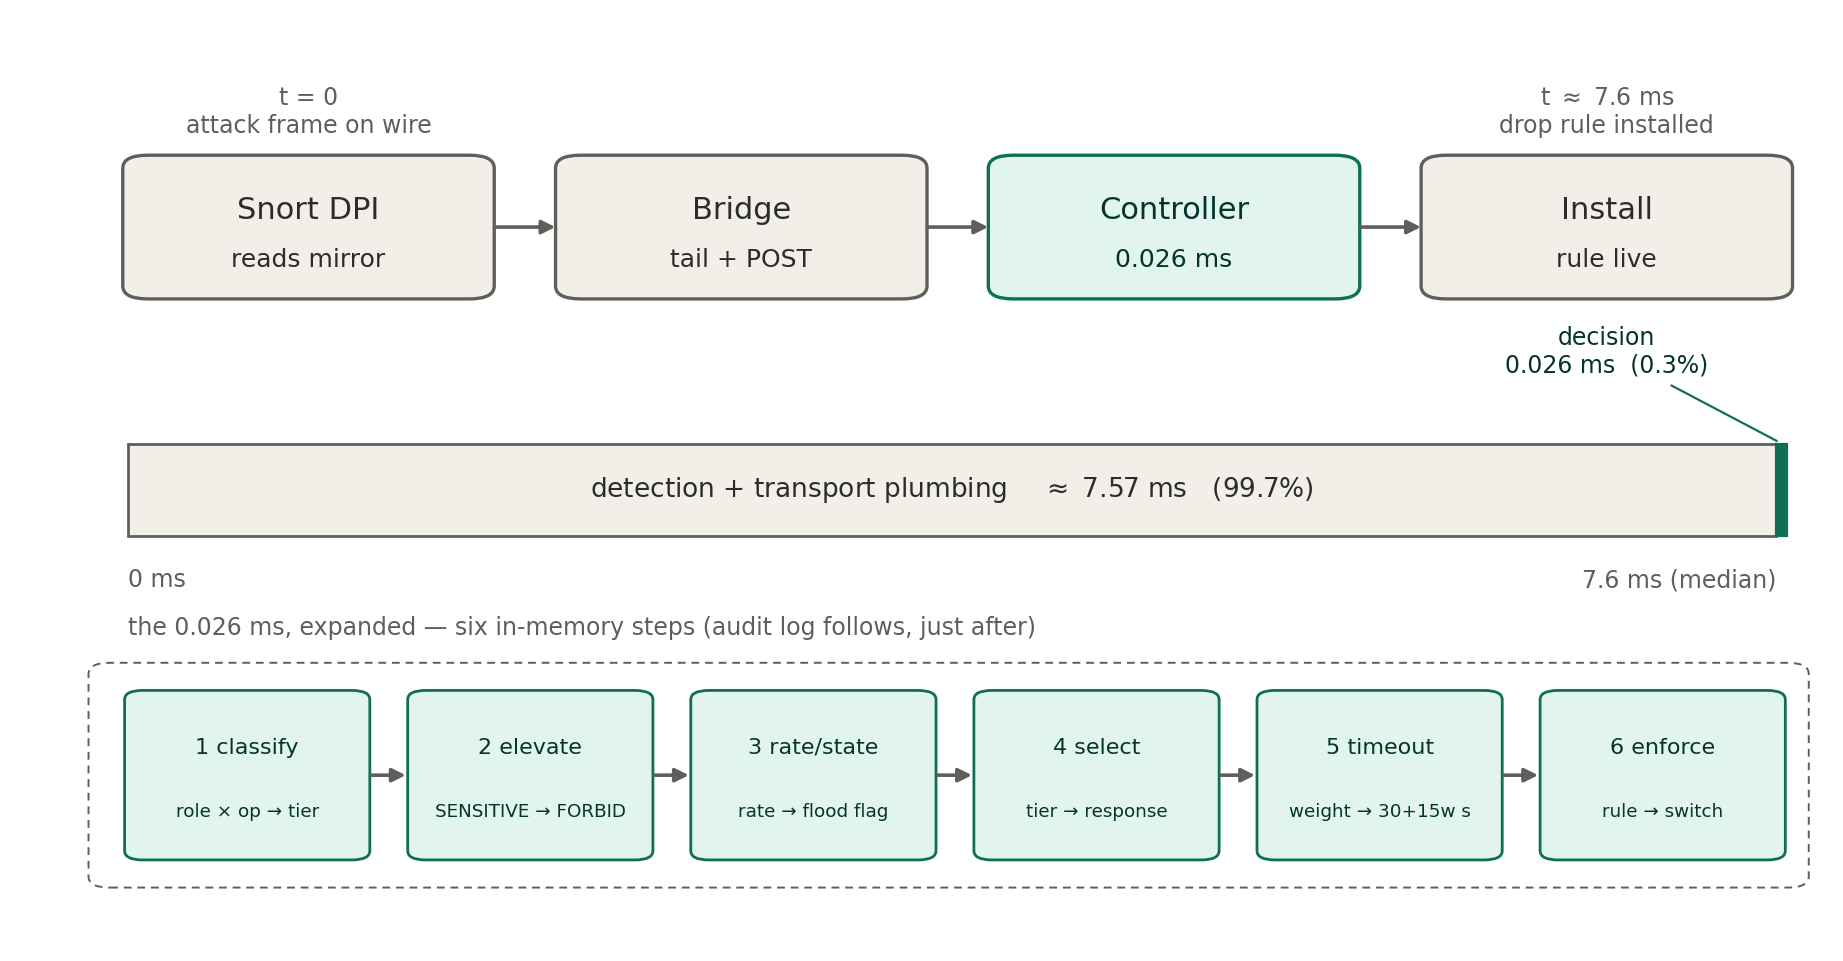
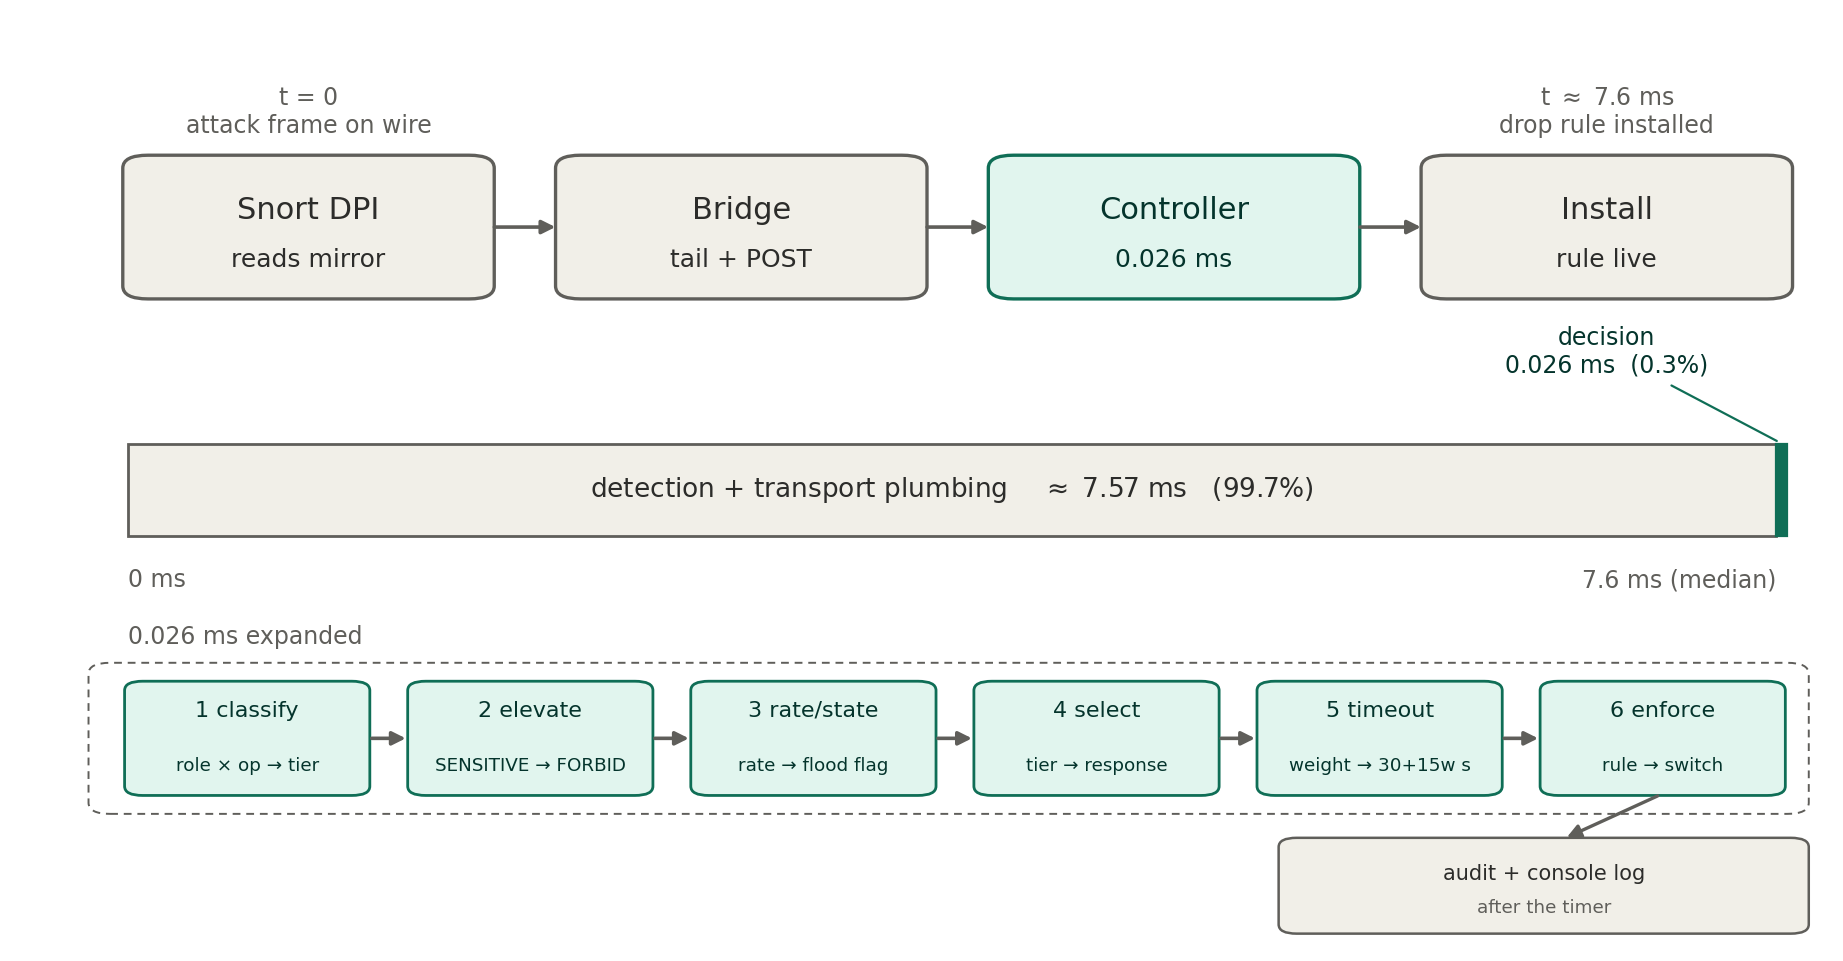
fig 4.8: heading -> '0.026 ms expanded'; move audit + console log to its own box outside the dashed timer container, arrow from step 6

Changed region(s): [[0.0619, 0.6243, 0.9897, 0.9677], [0.2474, 0.6243, 0.5567, 0.6556]]

diff --git a/report/figures/src/fig_reaction_window.py b/report/figures/src/fig_reaction_window.py
@@ -49,10 +49,10 @@ ax.annotate("decision\n0.026 ms  (0.3%)", xy=(97.7, yB+hB), xytext=(88, 64),
 ax.text(6, yB-3.5, "0 ms", ha="left", va="top", fontsize=8.5, color=GRY_E)
 ax.text(97.4, yB-3.5, "7.6 ms (median)", ha="right", va="top", fontsize=8.5, color=GRY_E)
 
-# --- Row C: the decision, expanded into its six in-memory steps ---
-ax.text(6, 34, "the 0.026 ms, expanded — six in-memory steps (audit log follows, just after)",
-        ha="left", va="center", fontsize=8.5, color=GRY_E)
-ax.add_patch(FancyBboxPatch((4, 6), 95, 24, boxstyle="round,pad=0.2,rounding_size=1.2",
+# --- Row C: the decision, expanded ---
+ax.text(6, 33, "0.026 ms expanded", ha="left", va="center", fontsize=8.5, color=GRY_E)
+# dashed container = the timed window
+ax.add_patch(FancyBboxPatch((4, 14), 95, 16, boxstyle="round,pad=0.2,rounding_size=1.2",
                             fc="none", ec=GRY_E, lw=0.7, linestyle=(0,(4,3))))
 steps = [("1 classify", "role × op → tier"), ("2 elevate", "SENSITIVE → FORBID"),
          ("3 rate/state", "rate → flood flag"), ("4 select", "tier → response"),
@@ -60,12 +60,18 @@ steps = [("1 classify", "role × op → tier"), ("2 elevate", "SENSITIVE → FOR
 w, gap, x0 = 13.2, 2.5, 6.0
 xs = [x0 + i*(w+gap) for i in range(6)]
 for x, (t, s) in zip(xs, steps):
-    ax.add_patch(FancyBboxPatch((x, 9), w, 18, boxstyle="round,pad=0.2,rounding_size=1.0",
+    ax.add_patch(FancyBboxPatch((x, 16), w, 12, boxstyle="round,pad=0.2,rounding_size=1.0",
                                 fc=TEAL_F, ec=TEAL_E, lw=1.0))
-    ax.text(x + w/2, 21, t, ha="center", va="center", fontsize=8, color=TEAL_T, weight="medium")
-    ax.text(x + w/2, 14, s, ha="center", va="center", fontsize=6.6, color=TEAL_T)
+    ax.text(x + w/2, 25, t, ha="center", va="center", fontsize=8, color=TEAL_T, weight="medium")
+    ax.text(x + w/2, 19, s, ha="center", va="center", fontsize=6.6, color=TEAL_T)
 for i in range(5):
-    arrow(xs[i] + w, xs[i+1], 18)
+    arrow(xs[i] + w, xs[i+1], 22)
+# audit + console log: OUTSIDE the timed window
+ax.add_patch(FancyBboxPatch((70, 1), 29, 10, boxstyle="round,pad=0.2,rounding_size=1.0",
+                            fc=GRY_F, ec=GRY_E, lw=0.9))
+ax.text(84.5, 7.3, "audit + console log", ha="center", va="center", fontsize=7.5, color=GRY_T, weight="medium")
+ax.text(84.5, 3.6, "after the timer", ha="center", va="center", fontsize=6.6, color=GRY_E)
+ax.annotate("", xy=(85.5, 11), xytext=(91.1, 16), arrowprops=dict(arrowstyle="-|>", color=GRY_E, lw=1.2))
 
 fig.subplots_adjust(left=0.01, right=0.99, top=0.99, bottom=0.01)
 fig.savefig("fig_reaction_window.png", dpi=200, bbox_inches="tight", facecolor="white")
